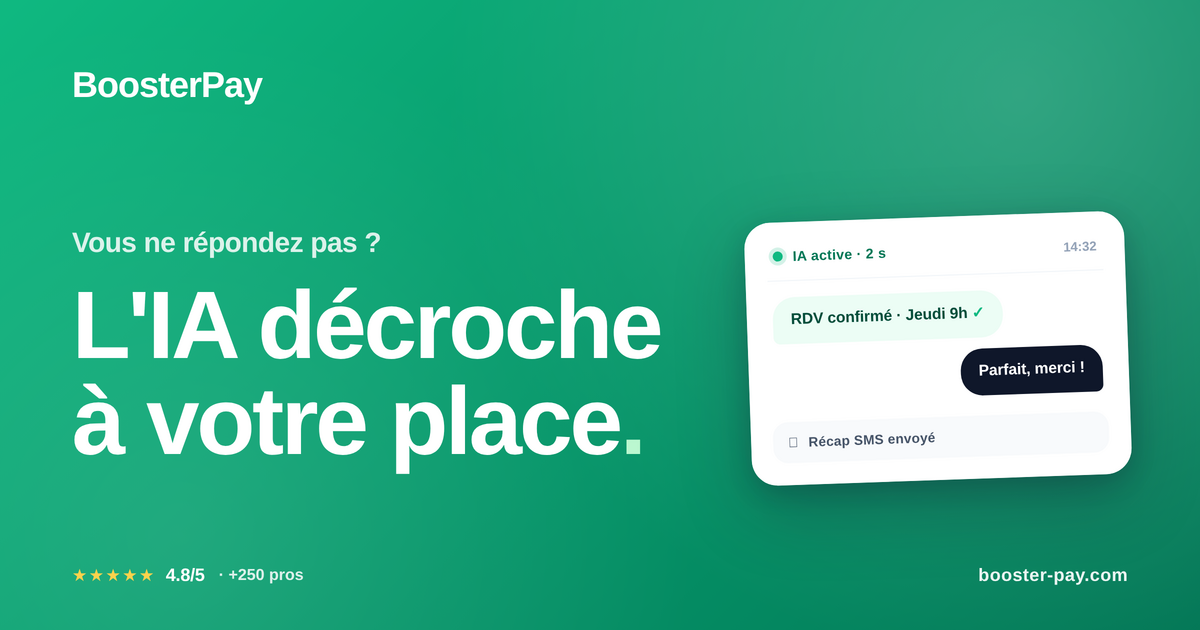
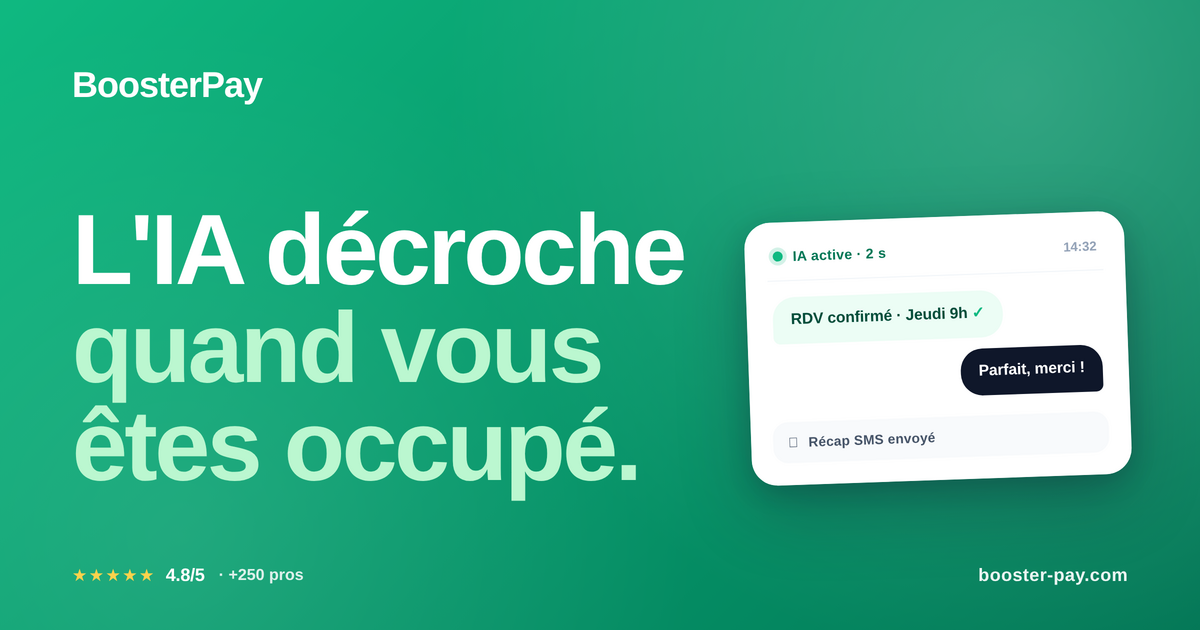
OG image v5 : headline géant 100px L'IA décroche quand vous êtes occupé (lisible thumbnail WhatsApp)

Changed region(s): [[0.0617, 0.3317, 0.5858, 0.7841]]

diff --git a/public/og-image.html b/public/og-image.html
@@ -60,21 +60,16 @@
 
     .left { padding-top: 0; }
 
-    .question {
-      font-size: 28px;
-      font-weight: 700;
-      color: rgba(255, 255, 255, 0.85);
-      letter-spacing: -0.5px;
-      margin-bottom: 18px;
-      line-height: 1.2;
+    .headline {
+      font-size: 100px;
+      font-weight: 900;
+      letter-spacing: -3.2px;
+      line-height: 0.98;
+      color: #FFFFFF;
     }
 
-    .headline {
-      font-size: 96px;
-      font-weight: 900;
-      letter-spacing: -3px;
-      line-height: 1;
-      color: #FFFFFF;
+    .headline-emerald {
+      color: #BBF7D0;
     }
 
     .headline-period {
@@ -212,8 +207,7 @@
 
     <div class="main">
       <div class="left">
-        <p class="question">Vous ne répondez pas&nbsp;?</p>
-        <h1 class="headline">L'IA décroche<br/>à votre place<span class="headline-period">.</span></h1>
+        <h1 class="headline">L'IA décroche<br/><span class="headline-emerald">quand vous êtes occupé</span><span class="headline-period">.</span></h1>
       </div>
 
       <div class="right">